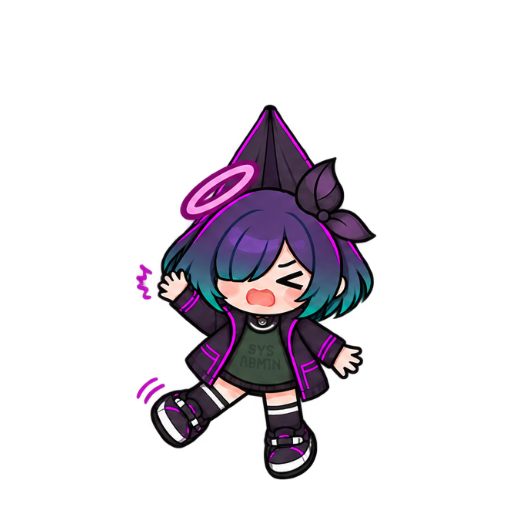
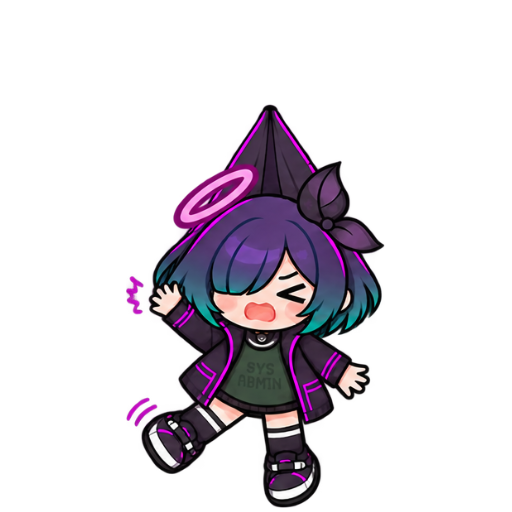
fix: normalize animation silhouette scales

Changed region(s): [[0.25, 0.2812, 0.75, 1.0], [0.5312, 0.2188, 0.5625, 0.25], [0.4688, 0.25, 0.5, 0.2812]]

diff --git a/tools/Bolttagu.AssetBuild/Program.cs b/tools/Bolttagu.AssetBuild/Program.cs
@@ -349,9 +349,83 @@ internal static class Program
         Directory.CreateDirectory(reviewRoot);
         var sheetPath = Path.Combine(reviewRoot, "contact-sheet.png");
         var metricsPath = Path.Combine(reviewRoot, "frame-metrics.json");
+        var scaleAuditPath = Path.Combine(reviewRoot, "scale-audit-sheet.png");
         SavePng(target, sheetPath);
         WriteJson(metricsPath, new ReviewMetrics(1, pack.Canvas, metrics));
-        return [sheetPath, metricsPath];
+        WriteScaleAuditSheet(scaleAuditPath, animationRoot, frames);
+        return [sheetPath, metricsPath, scaleAuditPath];
+    }
+
+    private static void WriteScaleAuditSheet(
+        string outputPath,
+        string animationRoot,
+        IReadOnlyList<FrameWorkItem> frames)
+    {
+        var requested = new (string ClipId, int Index)[]
+        {
+            ("idle_breathe", 0),
+            ("walk", 0),
+            ("click", 0),
+            ("click_huff", 0),
+            ("turn", 0),
+            ("drag_held_idle", 0),
+            ("drag_pulled", 0),
+            ("spawn_in", 5),
+            ("despawn_out", 0),
+            ("fall", 0),
+            ("drop_land", 3),
+        };
+        var selected = requested.Select(key => frames.Single(
+            item => item.ClipId == key.ClipId && item.FrameIndex == key.Index)).ToArray();
+        const int preview = 256;
+        const int labelHeight = 36;
+        const int columns = 4;
+        var rows = (int)Math.Ceiling(selected.Length / (double)columns);
+        var target = new RenderTargetBitmap(
+            columns * preview,
+            rows * (preview + labelHeight),
+            96,
+            96,
+            PixelFormats.Pbgra32);
+        var visual = new DrawingVisual();
+        using (var context = visual.RenderOpen())
+        {
+            for (var index = 0; index < selected.Length; index++)
+            {
+                var item = selected[index];
+                var column = index % columns;
+                var row = index / columns;
+                var x = column * preview;
+                var y = row * (preview + labelHeight);
+                context.DrawRectangle(
+                    new SolidColorBrush(Color.FromRgb(34, 31, 42)),
+                    null,
+                    new Rect(x, y, preview, preview));
+                var frame = LoadBitmap(ResolveContained(animationRoot, item.Frame.Path));
+                var bounds = GetAlphaBounds(frame);
+                context.DrawImage(frame, new Rect(x, y, preview, preview));
+                var guide = new Pen(new SolidColorBrush(Color.FromArgb(110, 78, 142, 136)), 1)
+                {
+                    DashStyle = DashStyles.Dash
+                };
+                context.DrawLine(guide, new Point(x + 128, y), new Point(x + 128, y + preview));
+                context.DrawLine(
+                    guide,
+                    new Point(x, y + (item.Frame.Pivot.Y / 2d)),
+                    new Point(x + preview, y + (item.Frame.Pivot.Y / 2d)));
+                var label = new FormattedText(
+                    $"{item.ClipId}/{item.FrameIndex:D3}\n{bounds.Width}x{bounds.Height} px",
+                    CultureInfo.InvariantCulture,
+                    FlowDirection.LeftToRight,
+                    new Typeface("Consolas"),
+                    11,
+                    Brushes.White,
+                    1);
+                context.DrawText(label, new Point(x + 4, y + preview + 2));
+            }
+        }
+        target.Render(visual);
+        SavePng(target, outputPath);
     }
 
     private static BitmapSource LoadBitmap(string path)

diff --git a/tests/Bolttagu.Assets.Tests/AssetPipelineTests.cs b/tests/Bolttagu.Assets.Tests/AssetPipelineTests.cs
@@ -164,6 +164,9 @@ public sealed class AssetPipelineTests
         var sheet = PngInspector.Read(Path.Combine(buildRoot, "review", "contact-sheet.png"));
         Assert.AreEqual(1024, sheet.Width);
         Assert.IsGreaterThan(1000, sheet.Height);
+        var scaleAudit = PngInspector.Read(Path.Combine(buildRoot, "review", "scale-audit-sheet.png"));
+        Assert.AreEqual(1024, scaleAudit.Width);
+        Assert.AreEqual(876, scaleAudit.Height);
 
         using var metrics = JsonDocument.Parse(File.ReadAllText(
             Path.Combine(buildRoot, "review", "frame-metrics.json")));
@@ -200,6 +203,21 @@ public sealed class AssetPipelineTests
         Assert.IsGreaterThanOrEqualTo(800, huff.Frames.Sum(frame => frame.DurationMs));
         var landing = pack.Clips.Single(clip => clip.Id == "drop_land");
         Assert.IsGreaterThanOrEqualTo(600, landing.Frames.Sum(frame => frame.DurationMs));
+
+        var representativeFrames = metrics.RootElement.GetProperty("frames").EnumerateArray().ToArray();
+        var idle = representativeFrames.Single(frame =>
+            frame.GetProperty("clipId").GetString() == "idle_breathe" && frame.GetProperty("index").GetInt32() == 0);
+        var held = representativeFrames.Single(frame =>
+            frame.GetProperty("clipId").GetString() == "drag_held_idle" && frame.GetProperty("index").GetInt32() == 0);
+        var pulled = representativeFrames.Single(frame =>
+            frame.GetProperty("clipId").GetString() == "drag_pulled" && frame.GetProperty("index").GetInt32() == 0);
+        var fall = representativeFrames.Single(frame =>
+            frame.GetProperty("clipId").GetString() == "fall" && frame.GetProperty("index").GetInt32() == 0);
+        Assert.IsInRange(400, 408, held.GetProperty("height").GetInt32(), "Held drag is undersized.");
+        Assert.IsInRange(372, 380, pulled.GetProperty("height").GetInt32(), "Pulled drag scale drifted.");
+        Assert.IsInRange(390, 400, fall.GetProperty("height").GetInt32(), "Fall pose is oversized.");
+        Assert.IsLessThan(idle.GetProperty("height").GetInt32(), held.GetProperty("height").GetInt32());
+        Assert.IsLessThan(idle.GetProperty("height").GetInt32(), fall.GetProperty("height").GetInt32());
     }
 
     [TestMethod]

diff --git a/asset/bolttagu/README.md b/asset/bolttagu/README.md
@@ -44,8 +44,12 @@ not begin from a `candidate` model.
 - Six-frame generated sources use isolated 512×512 cells in a 3×2 grid. Every cell keeps a
   four-pixel transparent gutter; the asset test rejects visible pixels on a cell boundary before
   neighboring art can leak into a compiled frame.
-- Every build writes `build/review/contact-sheet.png` and `frame-metrics.json`. Review these before
-  promoting generated strips from `candidate` to `approved`.
+- Every build writes `build/review/contact-sheet.png`, `scale-audit-sheet.png`, and
+  `frame-metrics.json`. The scale audit samples one representative frame per semantic action on
+  the same 512×512 capture box with center/pivot guides and visible-bound dimensions.
+- The grounded standing reference is about 420px tall. Held drag uses a 404px top-aligned
+  silhouette, directional drag keeps its 376px diagonal silhouette, and fall uses a separate
+  centered 396px frame so compact poses are not perceptually enlarged.
 
 ## Action completeness gate
 
